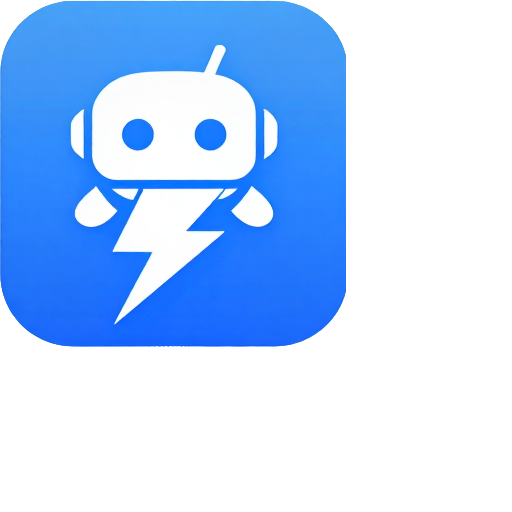
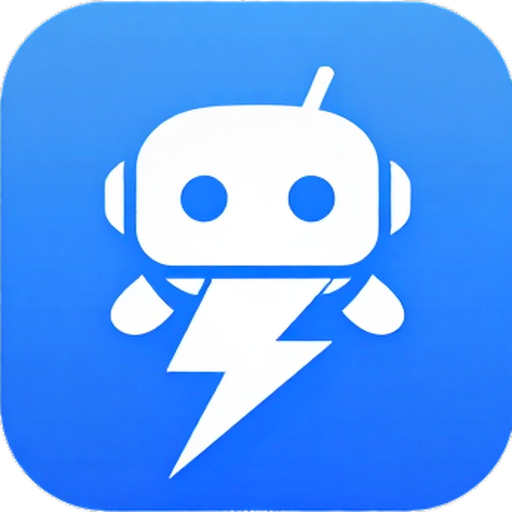
docs: update document

diff --git a/readme.MD b/readme.MD
@@ -1,12 +1,33 @@
-# Synbot
+<p align="center">
+  <img src="docs/logo.png" alt="Synbot" width="220" />
+</p>
 
-**Synbot** is a personal AI assistant in Rust originated from [nanobot](https://github.com/HKUDS/nanobot) (in Python) and inspired by[Openclaw](https://github.com/openclaw/openclaw) 
+<h1 align="center">Synbot </h1>
+<h3 align="center">Small, fast and safe personal AI bot</h1>
 
-**It is still research & experiment stage, be careful to try, please run in sandbox**
+**Synbot** is a personal AI assistant in Rust originated from [nanobot](https://github.com/HKUDS/nanobot) (in Python) and inspired by [Openclaw](https://github.com/openclaw/openclaw). 
+
+**It is still in experiment stage, be careful to try, please run in sandbox**
 
 ## News
 
 ## Features
+
+- Support run app and tool in isolated sandbox.   
+
+- No gateway exposed 
+
+- Single protable execution program for deployment
+
+- Support Windows, Macos, Linux with Intel x86 and ARM64 architecture
+
+- Sandbox support
+
+| Platform | Toll Sandbox | Tool Sandbox |
+|------|---------|---------|
+| Windows | AppContainer | Docker & gVisor  |
+| Linux | nono.sh(Landlock) | Docker & gVisorr |
+| macOS | nono.sh(Seatbelt) | Docker & gVisor |
 
 ## Install
 
